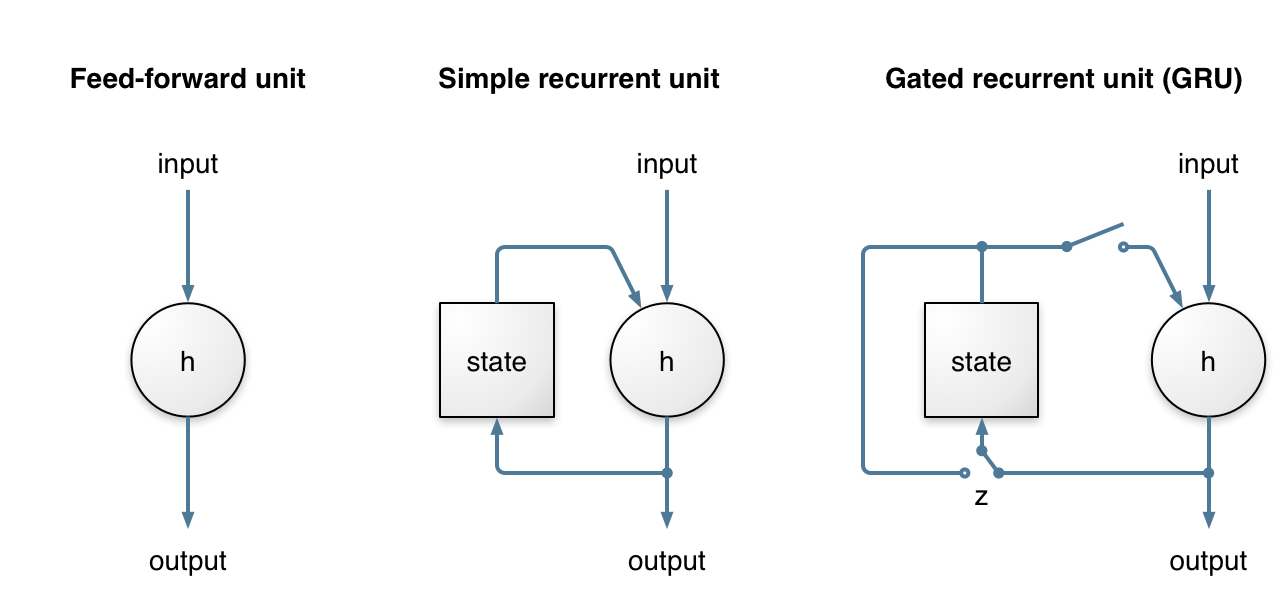
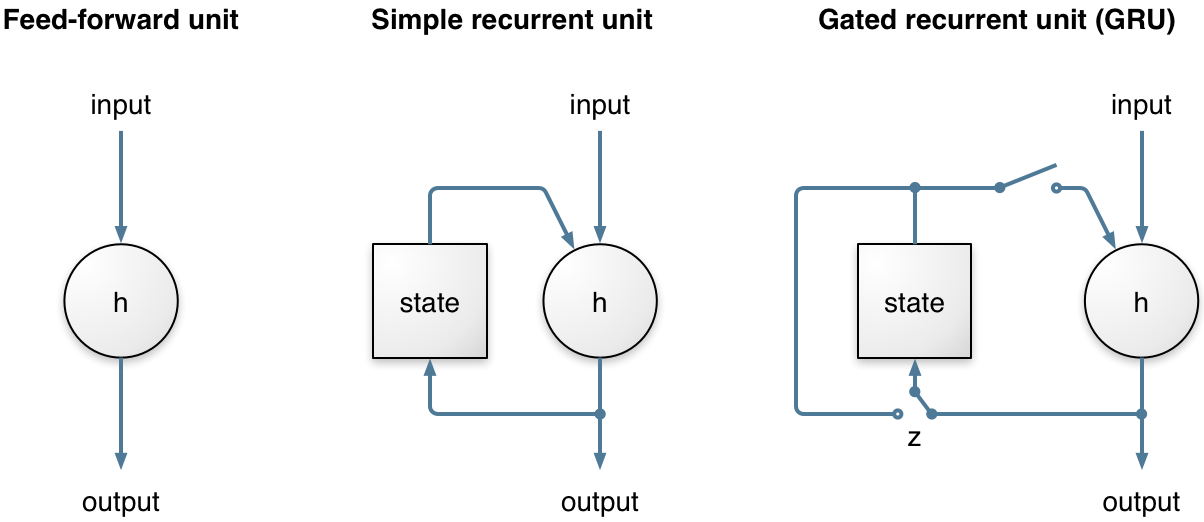
remove some padding

diff --git a/index.html b/index.html
@@ -93,7 +93,7 @@
     reason GRUs (and LSTMs) perform much better than simple recurrent units.
     </p>
 
-    <img class="caption" style="width: 700px;" src="simple_vs_gru.png" alt="recurrent units">
+    <img class="caption" style="width: 602px;" src="simple_vs_gru.png" alt="recurrent units">
     <div class="caption">
     Comparing a simple recurrent unit with a GRU. The difference lies in the GRU's <i>r</i> and <i>z</i>
     gates, which make it possible to learn longer-term patterns. Both are soft switches (value
